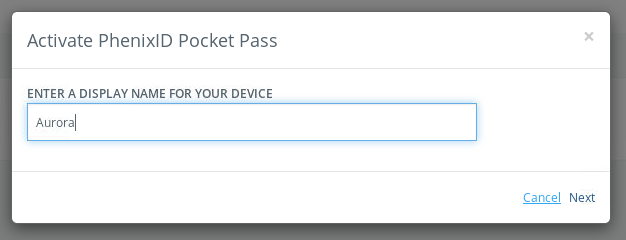
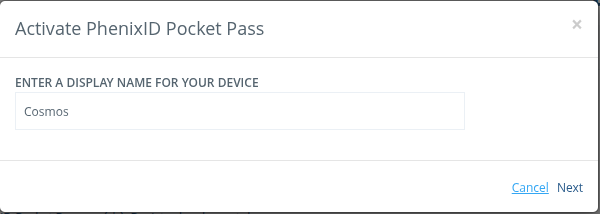
OneTouch replaces PocketPass

Changed region(s): [[0.0, 0.0, 1.0, 1.0]]

diff --git a/docs/getting_started/authenticator_howto.md b/docs/getting_started/authenticator_howto.md
@@ -1,19 +1,19 @@
-The process to install and set up the Pocket Pass authenticator is in five (5) steps, **ALL** steps must be performed correctly so **PLEASE** read the instructions carefully.
+The process to install and set up the OneTouch authenticator is in five (5) steps, **ALL** steps must be performed correctly so **PLEASE** read the instructions carefully.
 
-## Step 1: Download and install Pocket Pass
-Download and install the **PhenixID Pocket Pass** app on your smartphone. The correct app is free of charge.
+## Step 1: Download and install PhenixID OneTouch
+Download and install the **PhenixID OneTouch** app on your smartphone. The correct app is free of charge.
 
 ### Download for Apple iOS
 
-[![sample screen](../images/ios-download.png "Download for android"){: style="width:200px"}](https://itunes.apple.com/se/app/phenixid-pocket-pass/id1071318323?mt=8 "Pocket Pass download")
+[![sample screen](../images/ios-download.png "Download for android"){: style="width:200px"}](https://apps.apple.com/se/app/phenixid-onetouch/id1118849636 "OneTouch download")
 
 ### Download for Android OS
 
-[![sample screen](../images/android-download.png "Download for android"){: style="width:200px"}](https://play.google.com/store/apps/details?id=com.phenixidentity.pocketpass "Pocket Pass download")
+[![sample screen](../images/android-download.png "Download for android"){: style="width:200px"}](https://play.google.com/store/apps/details?id=com.phenixidentity.onetouch "OneTouch download")
 
 ## Step 2: Accessing the self-service portal
 
-Activation of the Pocket Pass app is done via a web-based activation portal. This can be done with any web browser from any computer. Use the link below to access the portal:
+Activation of the OneTouch app is done via a web-based activation portal. This can be done with any web browser from any computer. Use the link below to access the portal:
 
 [Self-service portal](https://phenix3.lunarc.lu.se/selfservice/)
 
@@ -21,11 +21,11 @@ Activation of the Pocket Pass app is done via a web-based activation portal. Thi
 ## Step 3: Token activation
 The self-service portal will show the following login screen:
 
-![sample screen](../images/selfservice_login_rev1.png "Desktop sample screen")
+![sample screen](../images/selfservice_login_rev2.png "Desktop sample screen")
 
 Enter your **LUNARC** username (not an email address) and password. These will generally be different from your LU credentials; if you are an existing user returning to these instructions to reset your password or replace a PocketPass, the username and password that PhenixID needs are the same as the ones used to log into COSMOS with SSH or ThinLinc. If everything works, you will receive an SMS with an OTP token to the registered phone number. Enter the OTP token on the next page:
 
-![sample screen](../images/selfservice_otp_rev1.png "Desktop sample screen")
+![sample screen](../images/selfservice_otp_rev2.png "Desktop sample screen")
 
 If everything worked you will be taken to a page with a **GENERAL**-tab with user information and a **TOKENS**-tab with the registered tokens. Click on the **TOKENS**-tab. This will display a button **Activate PhenixID Pocket Pass**. 
 
@@ -35,43 +35,43 @@ Click on the button to begin the process of activating a token. In the shown dia
 
 ![sample screen](../images/add_token2.png "Desktop sample screen")
 
-Click next to continue. This will display a QR code, which you scan with the Pocket Pass app on your smartphone in the next step.  **Make sure no one can scan your QR code and compromise your security**
+Click next to continue. This will display a QR code, which you scan with the OneTouch app on your smartphone in the next step.  **Make sure no one can scan your QR code and compromise your security**
 
 ![sample screen](../images/add_token3.png "Desktop sample screen")
 
 ## Step 4: Install the token on your smart phone
 
-Make sure the Pocket Pass app can access the camera of your smartphone. Open the Pocket Pass app and click **Install key**
+Make sure the OneTouch app can access the camera of your smartphone. Open the OneTouch app and click **Install key**
 
-![sample screen](../images/pp_ss2.png "Desktop sample screen")
+![sample screen](../images/ot_ss1.jpg "Desktop sample screen")
 
 Click on **Scan barcode**
 
-![sample screen](../images/pp_ss3.png "Desktop sample screen")
+![sample screen](../images/ot_ss2.jpg "Desktop sample screen")
 
 Point your camera to the QR code shown inside the HPC desktop on your desktop/laptop computer. The app should detect the code and install the key automatically. 
 
 In the next step, the app asks you for a pin code to protect your key. Enter your pin code. 
 
-![sample screen](../images/pp_ss4.png "Desktop sample screen")
+![sample screen](../images/ot_ss3.jpg "Desktop sample screen")
 
 When this is done the following screen should be shown:
 
-![sample screen](../images/pp_ss5.png "Desktop sample screen")
+![sample screen](../images/ot_ss4.jpg "Desktop sample screen")
 
-Click continue to display the current valid OTP-code.
+Click continue and One-time password to display the current valid OTP-code. The app will ask you to enter your own PIN code (the PIN code you entered in step 4).
 
-![sample screen](../images/pp_ss6.png "Desktop sample screen")
+![sample screen](../images/ot_ss5.jpg "Desktop sample screen")
 
-## Step 5: Important last step: Activate your token
+## __Step 5: Important last step: Activate your token__
 
-Go back to the self-service portal and click "next". You will then be prompted for an OTP to finalize the activation. You will get this OTP from the pocket-pass application and will **NOT** be sent as a text-message.
+Go back to the self-service portal and click "next". You will then be prompted for an OTP to finalize the activation. You will get this OTP from the OneTouch application (it will **NOT** be sent as a text-message).
 
 Your token will expire in two year's time at which time you will need to activate a new token.
 
 ## Completed
 
-You can now log in to the LUNARC systems using the Pocket Pass app. Having entered your password you will be prompted to enter your Pocket Pass OTP-token when logging in.
+You can now log in to the LUNARC systems using the OneTouch app. Having entered your password you will be prompted to enter your OneTouch generated OTP-token when logging in.
 
 
 ## Checking the validity of your token
@@ -79,7 +79,7 @@ You can now log in to the LUNARC systems using the Pocket Pass app. Having enter
 You can check the validity, in particular the expiration state, of your pocket pass token inside the self-service portal.  Use
 
 * your LUNARC password (not your SUPR password)
-* the one-time-password sent by **text message** to the phone number you have registered (not from the Pocket Pass app) 
+* the one-time-password sent by **text message** to the phone number you have registered (not from the OneTouch app) 
 
 when following [steps 2](#step-2-accessing-the-self-service-portal) and [3](#step-3-token-activation) mentioned above to access the self-service portal.  Please check the [FAQ](/../manual/faq/manual_faq_login/#could-your-send-my-one-time-password-for-pocket-pass-activation-to-my-new-mobile-phone-number) if you need to update your mobile phone number.
 
@@ -103,7 +103,7 @@ and trying to get a Pocket Pass at the same time.
 Try again from the start:
 
 - [Reset your password at the self service portal](https://phenix3.lunarc.lu.se/pss)
-- Get your Pocket Pass authenticator set up
+- Get your OneTouch authenticator set up
 
 ---
 
@@ -111,4 +111,4 @@ Try again from the start:
 (LUNARC)
 
 **Last Updated:**
-2022-10-05
+2025-10-04
